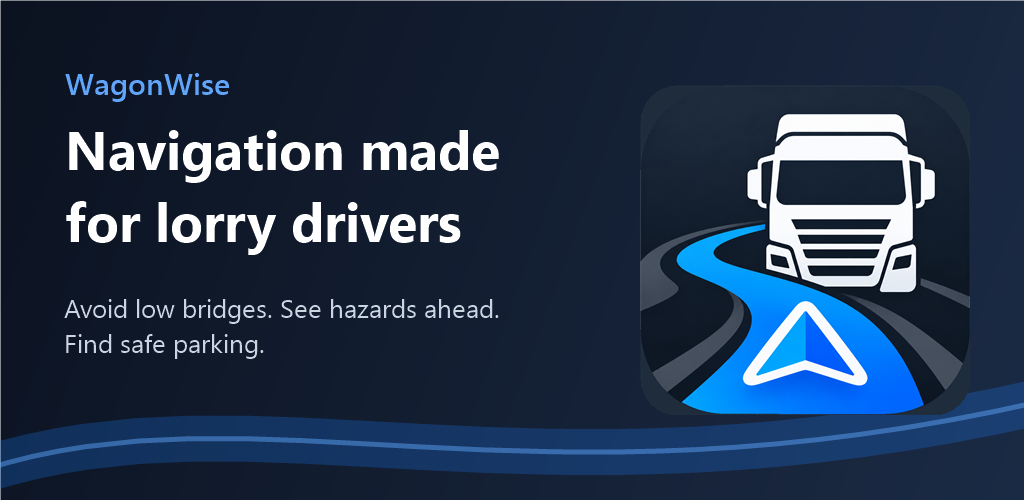
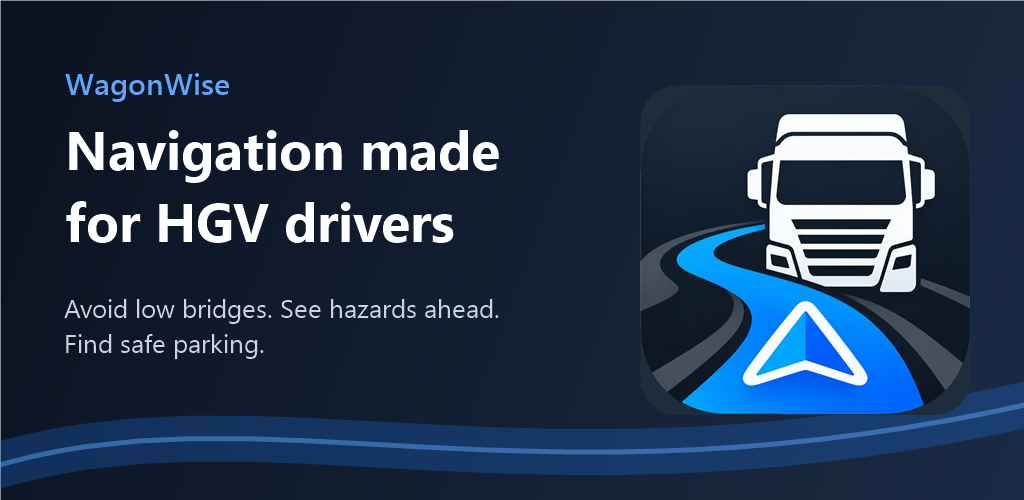
Play store: say HGV rather than lorry in the graphic and the listing text

Changed region(s): [[0.1562, 0.39, 0.4688, 0.51]]

diff --git a/docs/play-store-listing.md b/docs/play-store-listing.md
@@ -74,12 +74,12 @@ HGV navigation that avoids low bridges, with hazard and parking reports from dri
 
 **Full description:**
 
-> WagonWise is navigation made for lorry drivers.
+> WagonWise is navigation made for HGV drivers.
 >
 > Plan routes that fit your vehicle's height, width, length and weight, and get warned about hazards ahead: low bridges,
 > width and weight restrictions, and traffic reported by other drivers.
 >
-> - Routes for your actual vehicle. Save your lorry's dimensions once.
+> - Routes for your actual vehicle. Save your HGV's dimensions once.
 > - Hazards ahead, spoken so you can keep your eyes on the road. Report a hazard or traffic by voice.
 > - Safe parking: lay-bys, services and spots other drivers have marked, with toilets, showers and food shown at a glance.
 > - A faster route offered when traffic builds, so you can switch or keep going. It never changes your route by itself.
@@ -119,7 +119,7 @@ needs at least two. Each gets a short headline when framed (suggested wording be
 
 | #   | Screen                               | How to set it up                                                                                                                   | Headline (suggested)                      |
 | --- | ------------------------------------ | ---------------------------------------------------------------------------------------------------------------------------------- | ----------------------------------------- |
-| 1   | **Trip map**, mid-route              | Start a route; map following the blue line, the next-turn banner and the ETA card showing. This is the hero shot.                  | Navigation made for lorry drivers         |
+| 1   | **Trip map**, mid-route              | Start a route; map following the blue line, the next-turn banner and the ETA card showing. This is the hero shot.                  | Navigation made for HGV drivers           |
 | 2   | **Route options** before setting off | Plan a route and show Fastest and Shortest side by side with distance and time (and fuel cost if the profile has consumption set). | Routes that fit your vehicle              |
 | 3   | **Hazard warning ahead**             | A route passing a reported low bridge or width restriction; the hazard marker and its warning visible on the route.                | Hazards before you reach them             |
 | 4   | **Safe parking**                     | The parking card with the seven facilities (green for known, grey for unknown); layby/service area markers on the map.             | Find safe parking                         |
